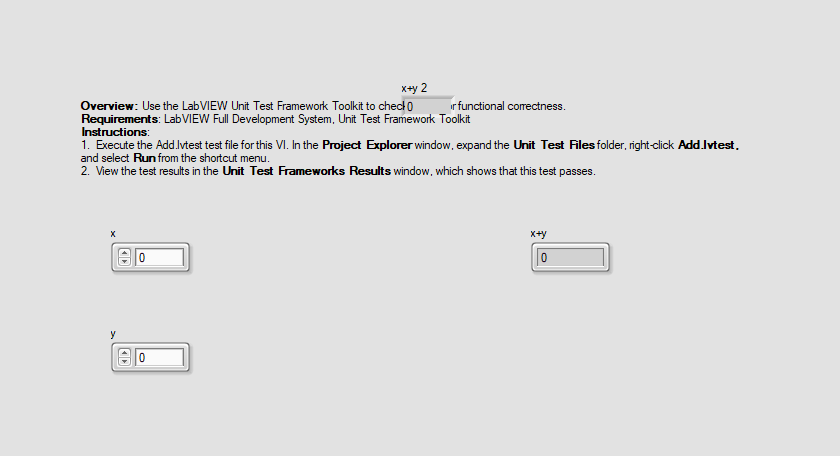
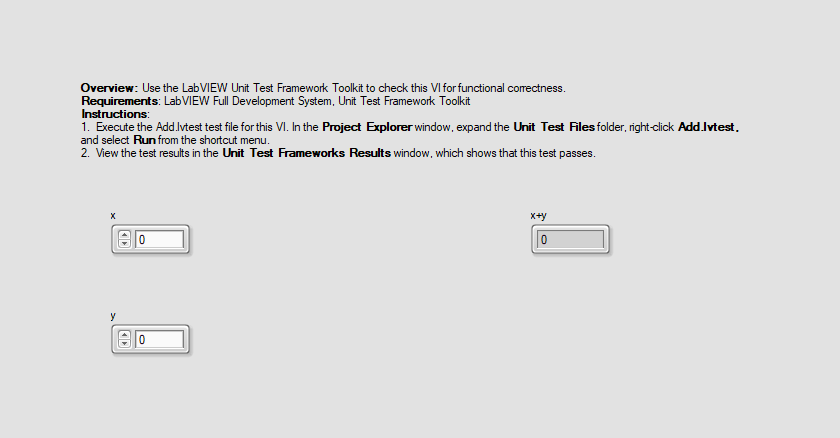
Publish to GitHub Pages

diff --git a/vidiff/pr-5/windows/vidiff/SampleVIs-Add.vi/index.html b/vidiff/pr-5/windows/vidiff/SampleVIs-Add.vi/index.html
@@ -4,7 +4,7 @@
 <body>
 <div class="report">
 <h1 class="report-title">LabVIEW VI Comparison Report</h1>
-<p class="generation-time">11/26/2026 2:08:44 AM</p>
+<p class="generation-time">11/26/2026 6:58:01 PM</p>
 <div class="compared-VIs">
 <details><summary class="difference-heading"><div class="dropdown-left">First VI: C:\workspace-base\SampleVIs\Add.vi</div><div class="dropdown-right">Second VI: C:\workspace\SampleVIs\Add.vi</div></summary>
 <table class="difference"><tr class="compared-vi-image-captions"><td class="compared-vi-image-caption">Front Panel Overview</td></tr>
@@ -29,35 +29,6 @@
 </ul>
 </div>
 <h2 class="section-header">Detailed Information</h2>
-<details open>
-
-<summary class="difference-heading">1. Block Diagram objects</summary>
-<table class="difference"><tr class="compared-vi-image-captions"><td class="compared-vi-image-caption">C:\workspace-base\SampleVIs\Add.vi</td><td class="difference-divider"></td><td class="compared-vi-image-caption">C:\workspace\SampleVIs\Add.vi</td></tr><tr class="compared-images"><td class="diff-image">
-
-<img class="difference-image" src="index_files/0_0_0_95_1.png" alt="index_files/0_0_0_95_1.png">
-</td><td class="difference-divider"></td><td class="diff-image">
-
-<img class="difference-image" src="index_files/0_0_0_95_2.png" alt="index_files/0_0_0_95_2.png">
-</td></tr></table>
-<ol class="detailed-description-list" type="A">
-<li class="diff-detail">Front Panel Terminal "x+y 2" - added at (357,259)</li>
-<li class="diff-detail">wiring changes</li>
-</ol>
-</details>
-<details open>
-
-<summary class="difference-heading">2. Front Panel objects</summary>
-<table class="difference"><tr class="compared-vi-image-captions"><td class="compared-vi-image-caption">C:\workspace-base\SampleVIs\Add.vi</td><td class="difference-divider"></td><td class="compared-vi-image-caption">C:\workspace\SampleVIs\Add.vi</td></tr><tr class="compared-images"><td class="diff-image">
-
-<img class="difference-image" src="index_files/1_0_0_76_1.png" alt="index_files/1_0_0_76_1.png">
-</td><td class="difference-divider"></td><td class="diff-image">
-
-<img class="difference-image" src="index_files/1_0_0_76_2.png" alt="index_files/1_0_0_76_2.png">
-</td></tr></table>
-<ol class="detailed-description-list" type="A">
-<li class="diff-detail">Numeric "x+y 2" - added at (371,17)</li>
-</ol>
-</details>
 </div>
 </body>
 </html>
